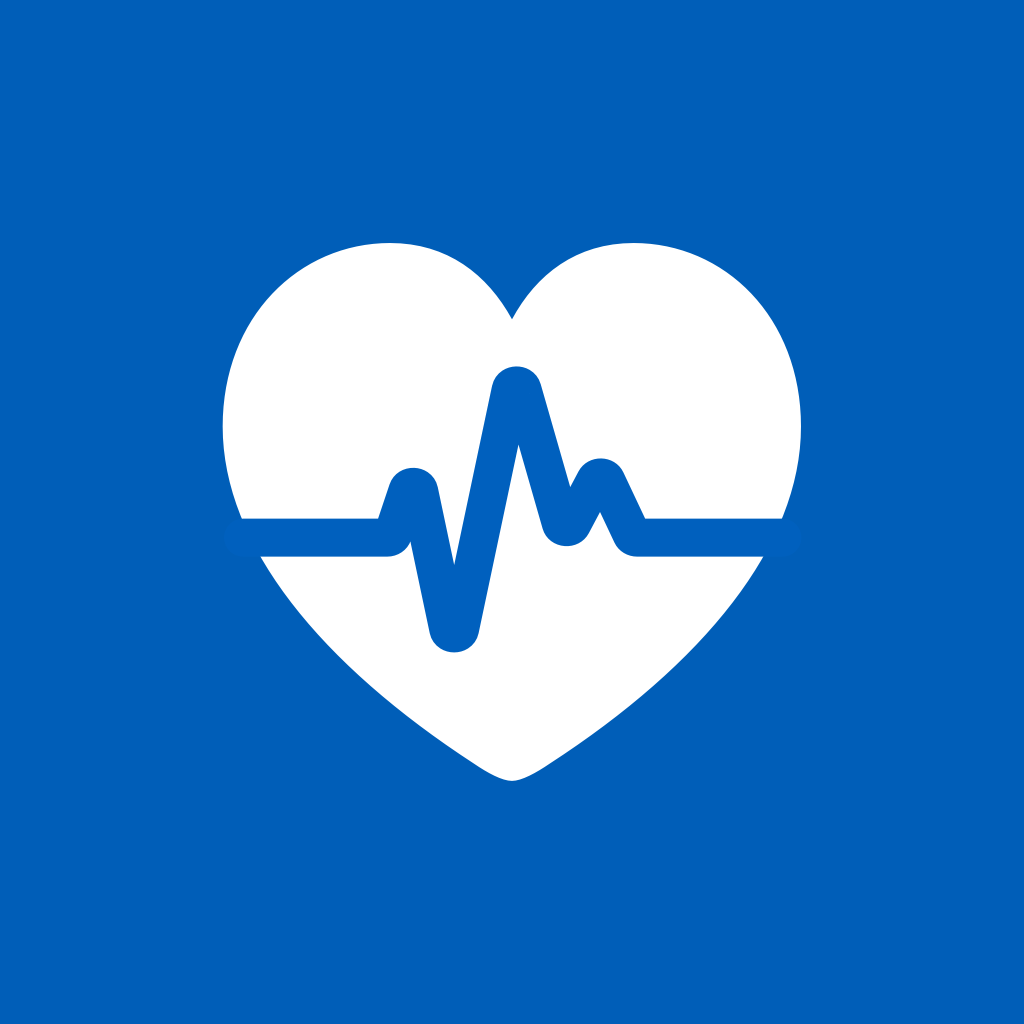
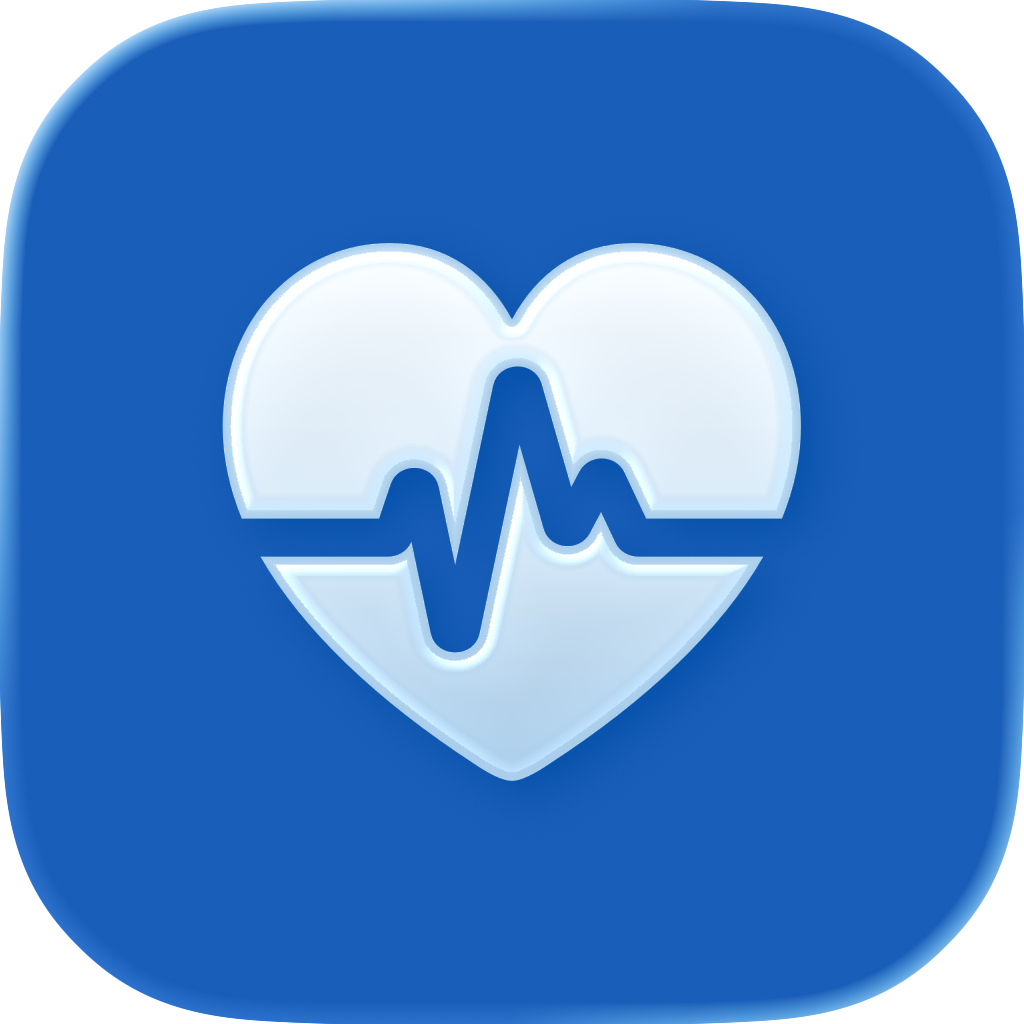
Update button styles and refresh images
Refined CSS for .cta-button, .learn-more-button, and .store_button to improve alignment and layout. Updated several PNG images in the images directory, likely for visual refresh or improved quality.

diff --git a/shared.css b/shared.css
@@ -232,8 +232,9 @@ a:hover {
 }
 
 .cta-button {
-    display: inline-block;
-    margin-top: 15px;
+    display: inline-flex;
+    align-items: center;
+    height: 41px;
 }
 
 .app-card-buttons {
@@ -247,7 +248,8 @@ a:hover {
 .learn-more-button {
     display: inline-flex;
     align-items: center;
-    padding: 12px 30px;
+    justify-content: center;
+    padding: 0 30px;
     background: #007AFF;
     color: #ffffff;
     border-radius: 8px;
@@ -551,7 +553,7 @@ th, td {
 
 /* Images and buttons */
 .store_button {
-    margin: 0 8px;
+    display: block;
     width: 139px;
     height: 41px;
     transition: transform 0.2s ease;
